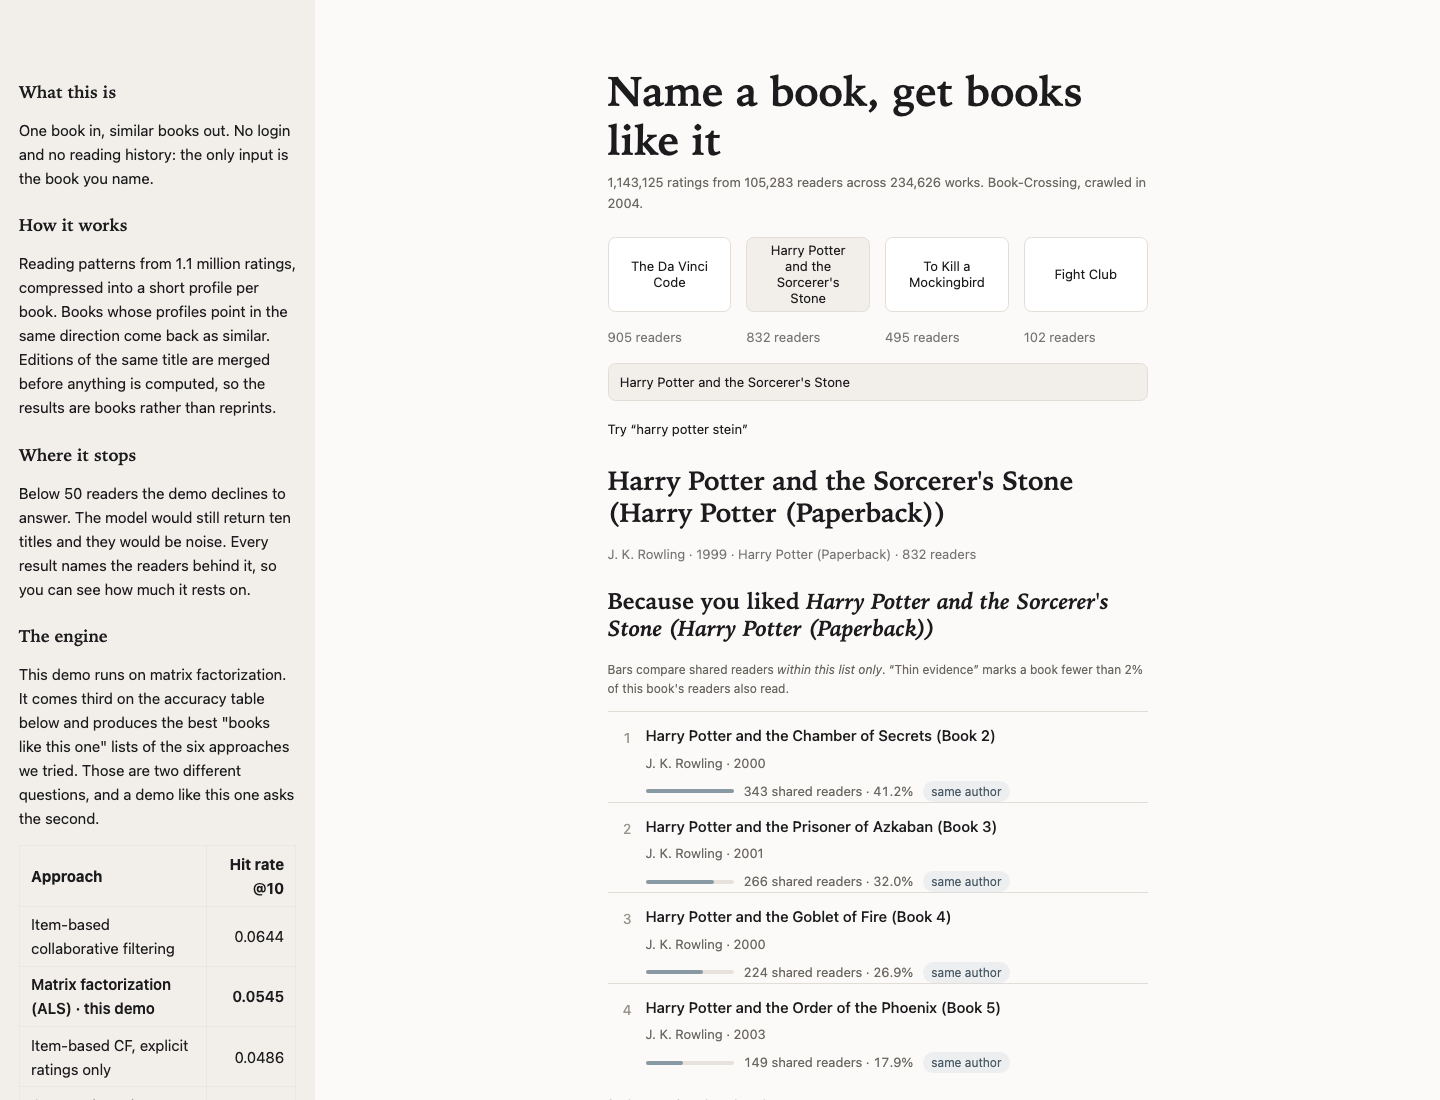
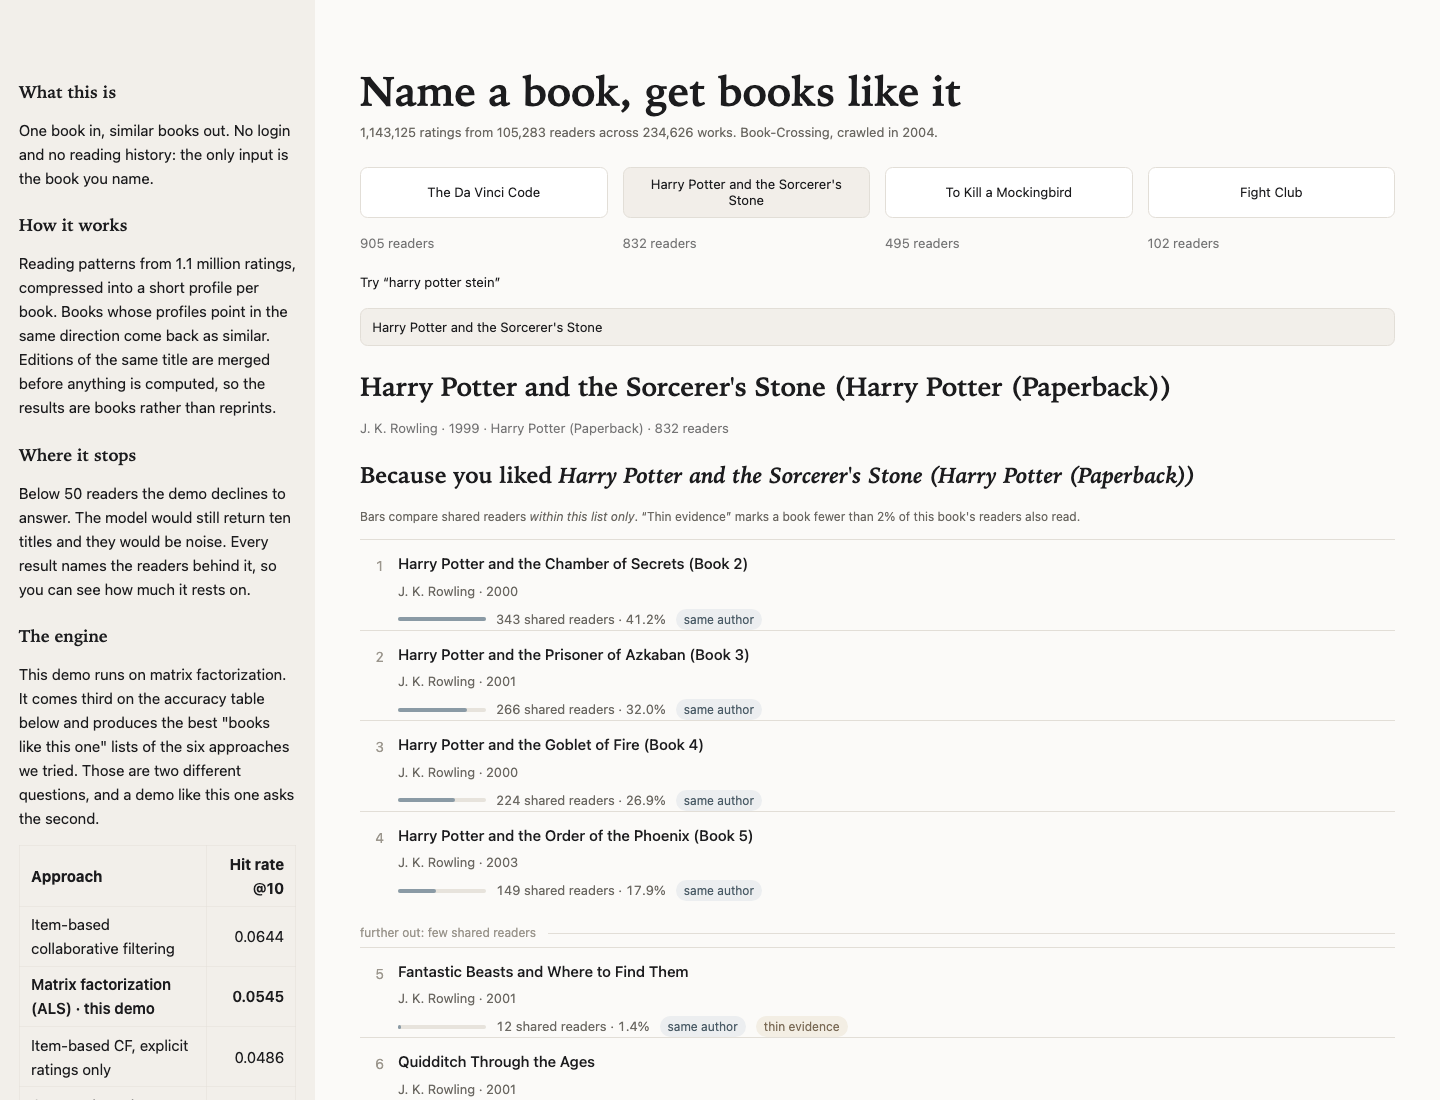
Main column fills the width
decided on seeing it run, reversing M15.2's 46rem measure. The
typographic argument for a bounded column was real, and so is the one against
it: the demo looked cramped with two thirds of a 1920px beamer empty.

The ~90-character DoD item goes with it and is marked withdrawn in
the milestone notes rather than quietly dropped. What carries the list without the
measure is the row itself — the evidence sits under the title in its own
block, so a wide viewport stretches the whitespace to the right of each row,
not the text inside it.

The button height drops from 5rem to a 3.4rem minimum, because at full width
the labels no longer wrap. Verified in the DOM at 1920 and 1440: four buttons
at 51px and the reader counts on one baseline at both.

Screenshots re-shot.

diff --git a/app/main.py b/app/main.py
@@ -67,17 +67,21 @@ EXAMPLE_QUERY = "harry potter stein"
 #: does most of the work.
 STYLE = """
 <style>
-  /* The measure. `layout="wide"` is kept for the sidebar, but body text at 1920px runs to
-     ~200 characters, which is the loudest "this is a script, not a product" signal there
-     is. 46rem lands the reason lines near 80 characters on the beamer. */
-  .block-container {max-width: 46rem; padding-top: 2.2rem;}
+  /* Full width, by decided on seeing it run (08.08.2026), reversing M15.2's
+     46rem measure. M15.2's argument was typographic — body text at 1920px runs long — and
+     the DoD item about a ~90-character measure goes with it; the deviation is recorded
+     with the milestone rather than quietly dropped. What keeps it readable at full
+     width is the row itself: the evidence line sits directly under the title in its own
+     block, so a wide viewport stretches the whitespace to the right of each row rather
+     than the text inside it. */
+  .block-container {max-width: none; padding-top: 2.2rem; padding-left: 3rem; padding-right: 3rem;}
   section[data-testid="stSidebar"] {min-width: 21rem;}
 
   /* The button row: the labels wrap to different numbers of lines, which put the reader
      counts on different baselines. A fixed height squares the row. Selected by testid —
      the emotion class names are generated per build and `div.stButton > button` does not
      match the current DOM, which is why the first attempt silently did nothing. */
-  [data-testid^="stBaseButton"] {min-height: 5rem; height: 5rem; white-space: normal;
+  [data-testid^="stBaseButton"] {min-height: 3.4rem; white-space: normal;
                                  line-height: 1.2; font-size: 14px;}
   /* ...except the tertiary "try this query" link, which is a line of text, not a target. */
   [data-testid="stBaseButton-tertiary"] {min-height: 0; height: auto; font-size: 13px;}
